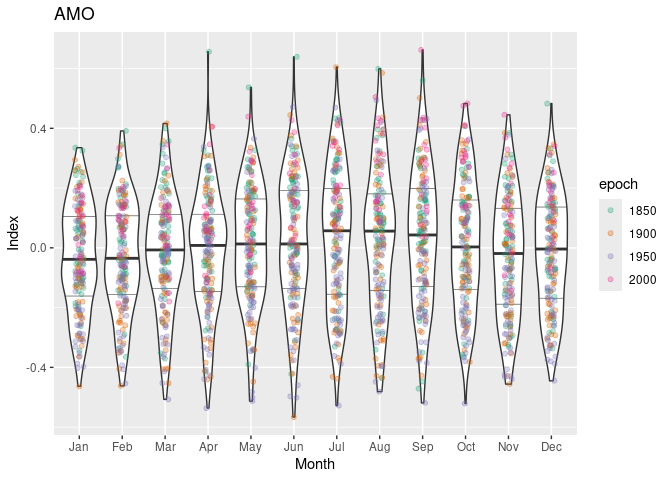
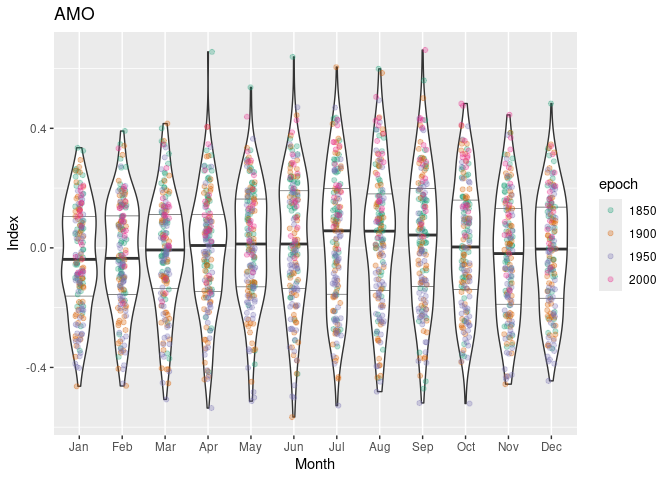
update package README

diff --git a/package/README.md b/package/README.md
@@ -111,3 +111,15 @@ plot_amo(amo, type = "climatology")
 ```
 
 ![](README_files/figure-gfm/amo_climatology-1.png)<!-- -->
+
+``` r
+map_species_by_county()
+```
+
+![](README_files/figure-gfm/chloropleth-1.png)<!-- -->
+
+``` r
+map_species_by_county(spp = "Lobster American", style = "cartogram")
+```
+
+![](README_files/figure-gfm/cartogram-1.png)<!-- -->